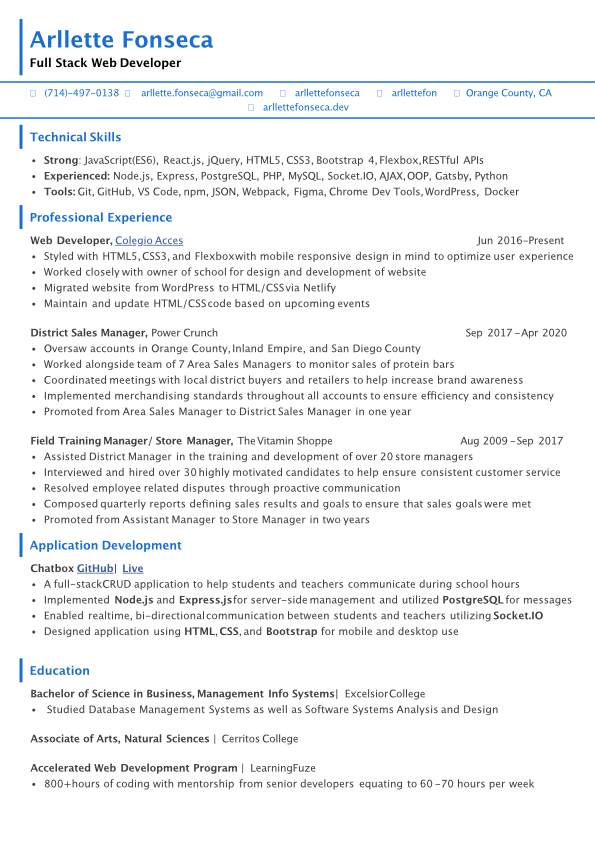
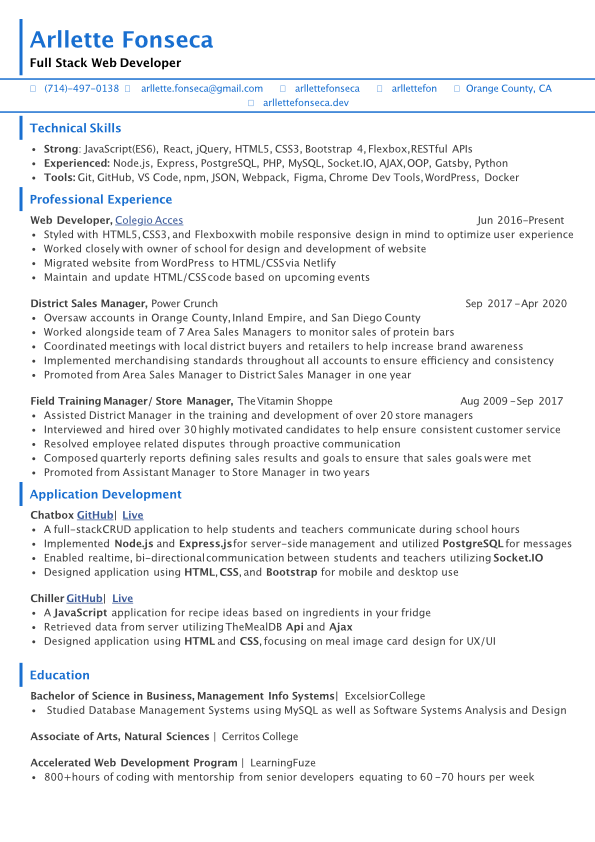
updated resume on readme profile

Changed region(s): [[0.0, 0.0926, 1.0, 0.9572], [0.7563, 0.8955, 0.9076, 0.9572]]

diff --git a/README.md b/README.md
@@ -25,7 +25,7 @@ A technical school website providing students information about the school. Crea
 
 Live Preview: [Chiller Recipe App](https://chiller-recipe-application.netlify.app/)
 
-A recipe application given you instructions for meals based on ingredients in your fridge. Created using HTML, CSS, JavaScript, Ajax and the meal database API.
+A recipe application given you instructions for meals based on ingredients in your fridge. Created using HTML, CSS, JavaScript, Ajax and TheMealDB Api.
 
 
 ### Some technologies I enjoy working with:
